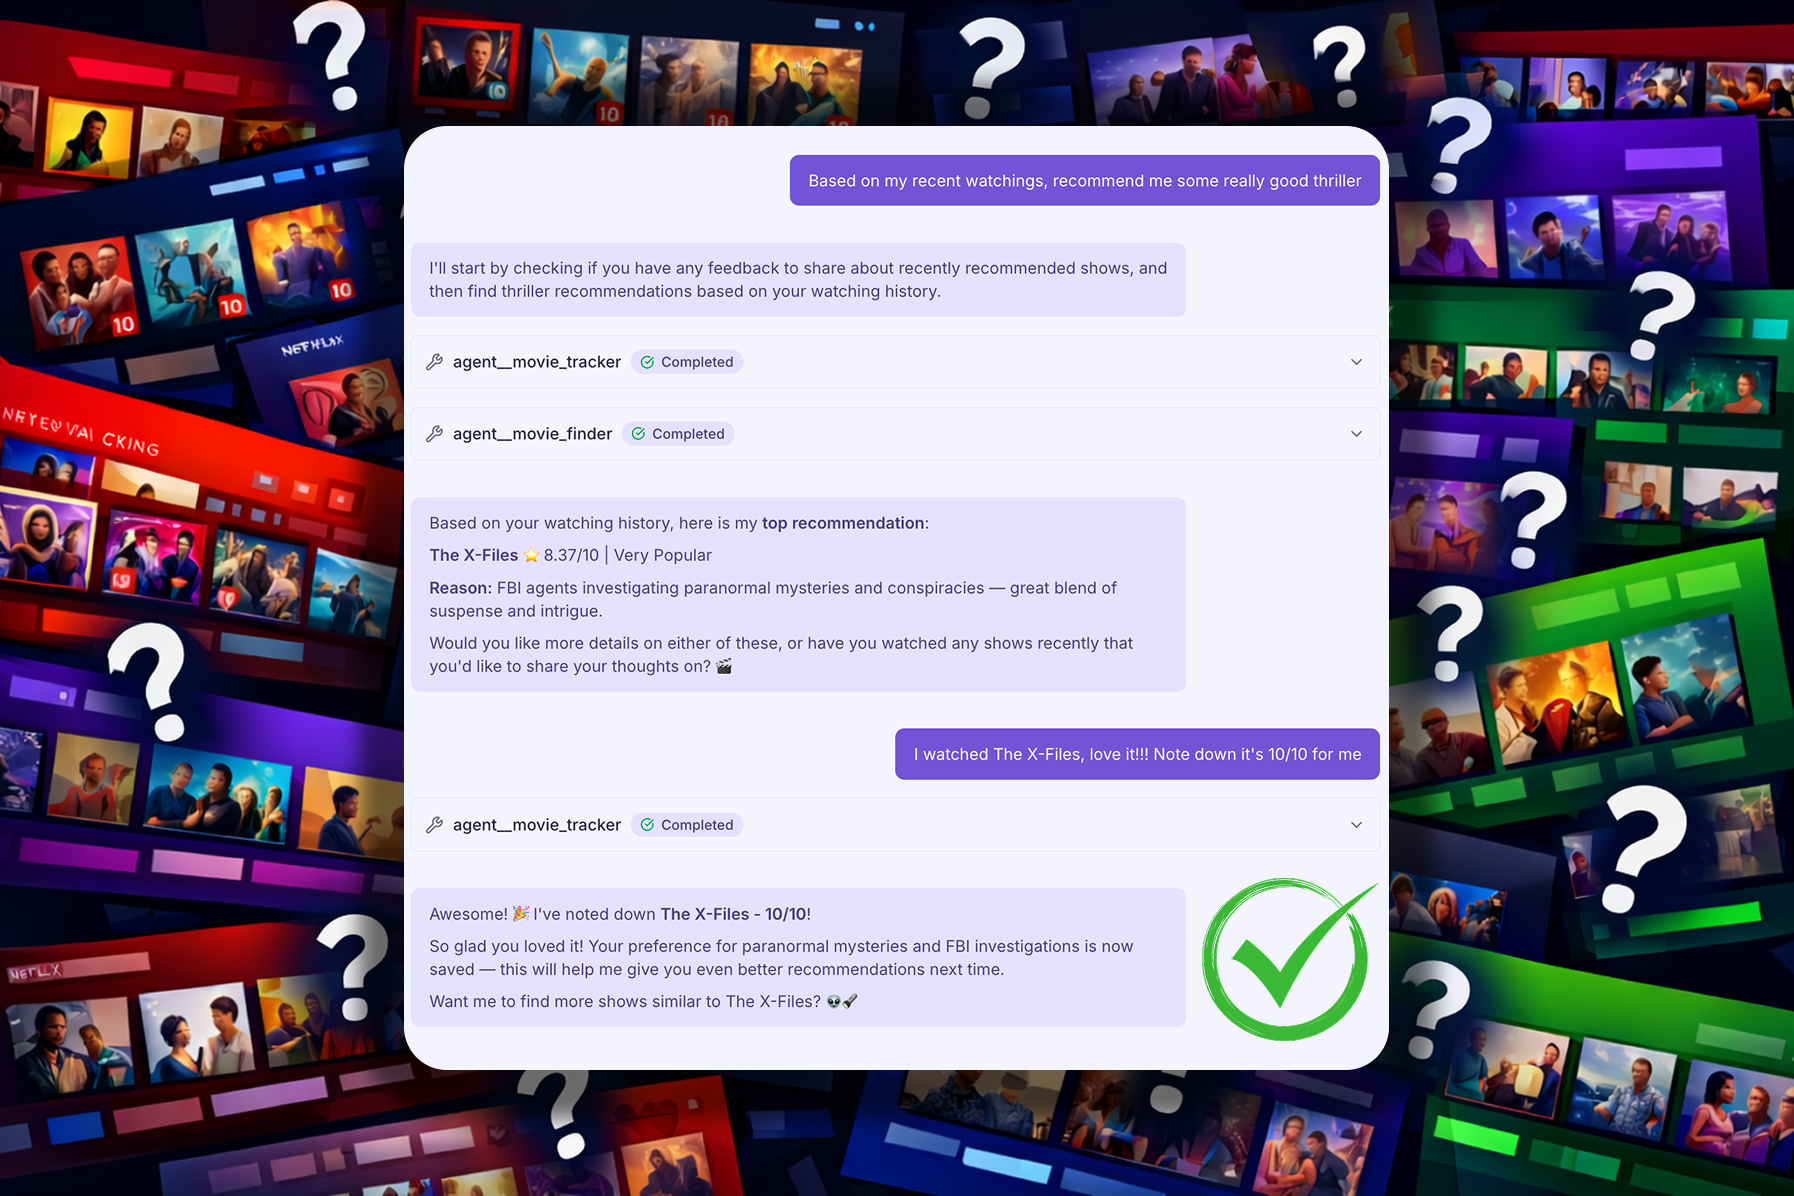
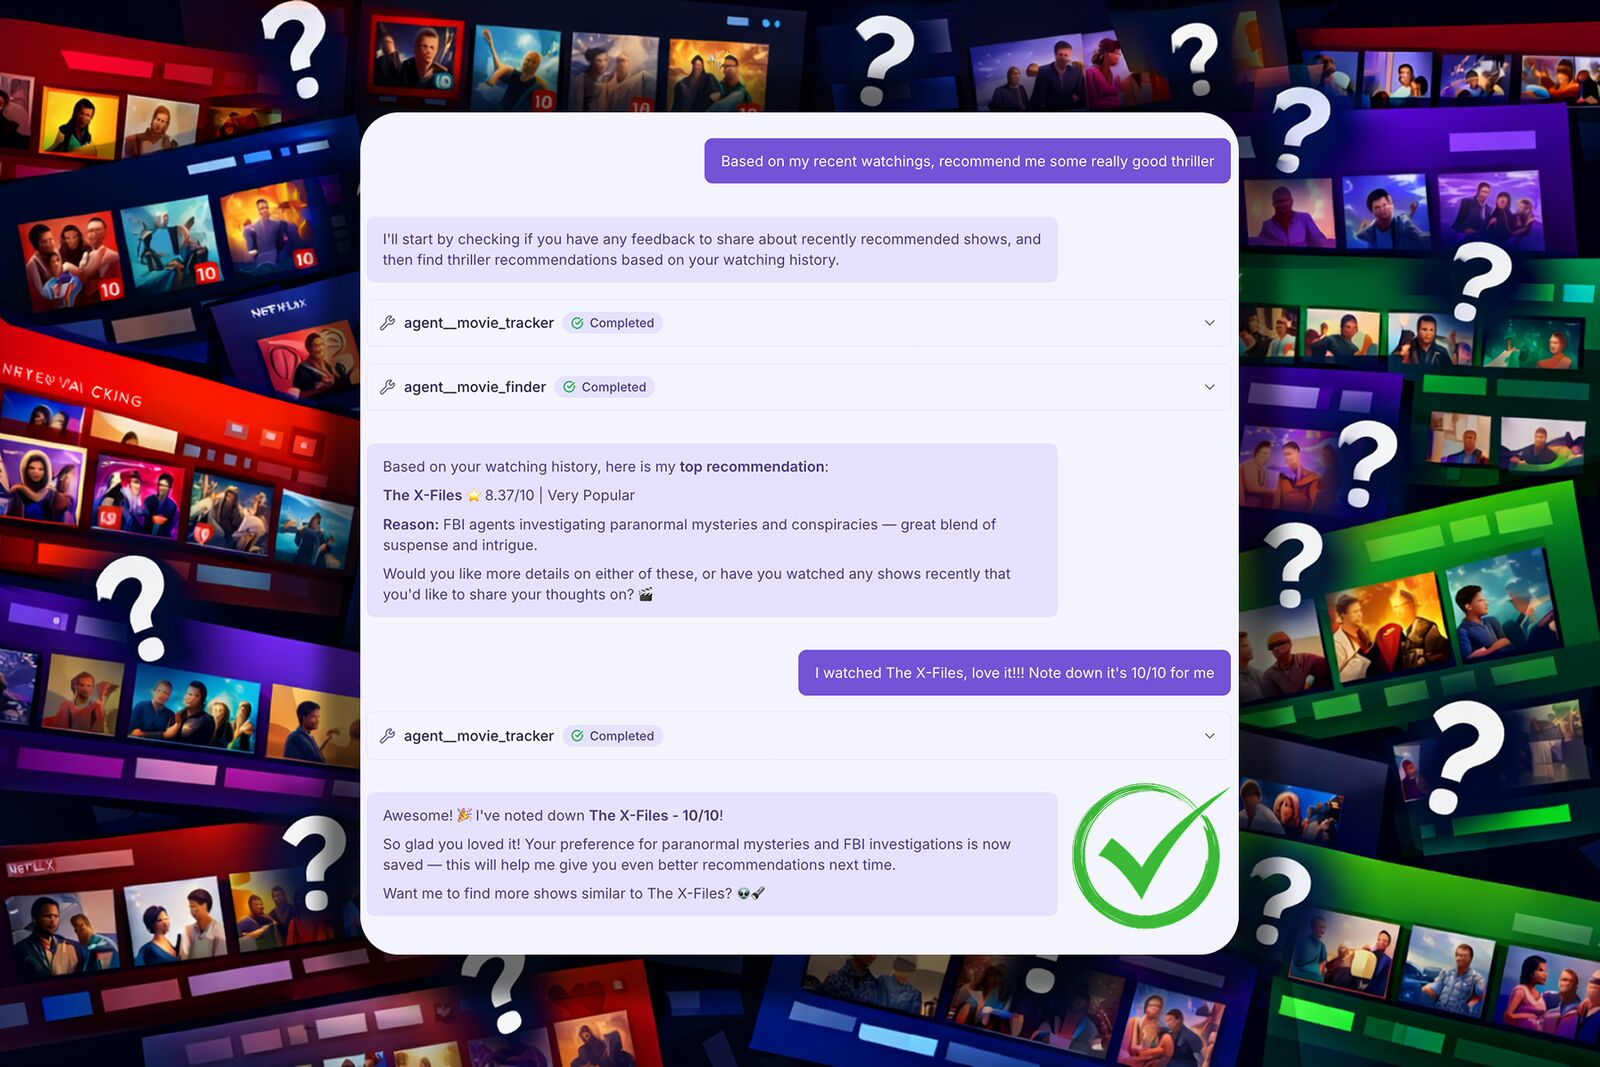
chore: optimize oversized blog images

diff --git a/app/scripts/check-image-budgets.ts b/app/scripts/check-image-budgets.ts
@@ -42,28 +42,7 @@ const budgetRules: BudgetRule[] = [
   },
 ];
 
-const legacyExceptions = new Set([
-  'blog/2025-08-11-why-we-founded-archestra-hero.jpg',
-  'blog/2025-08-20-archestra-joins-cncf-hero.png',
-  'blog/2025-09-09-celebrating-100-mcp-servers-hero.png',
-  'blog/2025-09-18-welcome-dominik-hero.jpg',
-  'blog/2025-10-13-what-is-prompt-injection-hero.png',
-  'blog/2025-12-09-platform-evolvement-image2.png',
-  'blog/2025-12-28-gaggimate-mcp.png',
-  'blog/2025-12-28-hoffmann.png',
-  'blog/2025-12-28-machine.png',
-  'blog/2025-12-28-shot-1-photo.png',
-  'blog/2026-01-12-agents.gif',
-  'blog/2026-01-12-hero.jpg',
-  'blog/2026-01-12-ingest.gif',
-  'blog/2026-01-12-install-mcp.gif',
-  'blog/2026-01-12-mcp-registry.gif',
-  'blog/2026-02-04-openclaw-secure-hero.png',
-  'blog/2026-02-04-openclaw-matvey-prompt-injection.png',
-  'blog/2026-02-11-mcp-authentication.png',
-  'blog/2026-03-30-enterprise-managed-authorization-hero.png',
-  'team-photo.jpg',
-]);
+const legacyExceptions = new Set<string>();
 
 function formatBytes(bytes: number): string {
   return `${(bytes / MB).toFixed(2)} MB`;

diff --git a/app/app/blog/content/brew-by-ai.md b/app/app/blog/content/brew-by-ai.md
@@ -27,13 +27,13 @@ This post is packed with technical details. It starts with the mechanics of the 
 
 # The Problem of Dialing In Espresso
 
-![1.3 million views on a video about dialing in espresso...](/blog/2025-12-28-hoffmann.png)
+![1.3 million views on a video about dialing in espresso...](/blog/2025-12-28-hoffmann.webp)
 
 So, how exactly do you brew delicious coffee? Unfortunately (or fortunately for the die-hard fans), it’s not that simple. First off, "delicious" is a relative concept. Secondly, it involves optimizing a multitude of parameters: beans, **extraction time, brew temperature, pressure, grind size**, and on and on. In other words, unless you’re an enthusiast with a huge amount of free time, making a great espresso at home happens either by pure chance or by inviting one of those experts into your kitchen. That’s exactly what we’re going to attempt today—by inviting AI to dial in our espresso for us.
 
 # The Hardware
 
-<img src="/blog/2025-12-28-machine.png" alt="Ascaso Dream + Gaggimate" style="max-height: 400px; width: auto; display: block; margin: 0 auto;">
+<img src="/blog/2025-12-28-machine.webp" alt="Ascaso Dream + Gaggimate" style="max-height: 400px; width: auto; display: block; margin: 0 auto;">
 
 For the holidays, an old friend of mine, [Borys Tymchenko](https://github.com/spsancti), came to visit London, and he didn't come alone — he brought a unique item along in his carry-on luggage. He found an Ascaso Dream on the street in Tel Aviv, restored it, and heavily modified it by installing the open-source firmware https://github.com/jniebuhr/gaggimate.
 
@@ -180,7 +180,7 @@ I’ve added the Gaggimate MCP to the Archestra registry, so installation is lit
 
 > If you want to add your own server to the catalog, [this is how it's done](https://github.com/archestra-ai/website/blob/main/app/app/mcp-catalog/data/mcp-evaluations/matvey-kuk__gaggimate-mcp.json).
 
-<img src="/blog/2025-12-28-gaggimate-mcp.png" alt="Installing Gaggimate MCP">
+<img src="/blog/2025-12-28-gaggimate-mcp.webp" alt="Installing Gaggimate MCP">
 
 During installation, you'll need to provide the `GAGGIMATE_HOST`. I recommend using the local network IP address instead of the `.local` domain. You can find the IP address like this:
 
@@ -294,7 +294,7 @@ Quite impressive, the shot was definitely not a great one and AI managed to get 
 
 AI created a "classical" profile: 5s pre-infusion; 9 bar till 1:2 ratio after that. It went with 94C.
 
-<img src="/blog/2025-12-28-shot-1-photo.png" alt="The first shot, machine stopped a bit earlier">
+<img src="/blog/2025-12-28-shot-1-photo.webp" alt="The first shot, machine stopped a bit earlier">
 
 **Cup #2**
 

diff --git a/app/app/blog/content/lightrag.md b/app/app/blog/content/lightrag.md
@@ -110,7 +110,7 @@ node ingest-tv-shows.mjs
 
 All 100 TV shows will be ingested. Check out the knowledge graph in the UI - pretty cool!
 
-<img src="/blog/2026-01-12-ingest.gif" alt="LightRAG ingestion" />
+<img src="/blog/2026-01-12-ingest.webp" alt="LightRAG ingestion" />
 
 ---
 
@@ -143,7 +143,7 @@ We'll use an MCP server via the **Archestra MCP Orchestrator** - specifically [m
 
 First, add the MCP server to the registry:
 
-<img src="/blog/2026-01-12-mcp-registry.gif" alt="Add MCP Server to MCP registry" />
+<img src="/blog/2026-01-12-mcp-registry.webp" alt="Add MCP Server to MCP registry" />
 
 ## Install MCP server and assign tools
 
@@ -151,7 +151,7 @@ Install the MCP server with the credentials for **LightRAG**. Under the hood, Ar
 
 Then assign the tools to a **profile** so they're available in chat. We'll also loosen the tool policies since we trust our data.
 
-<img src="/blog/2026-01-12-install-mcp.gif" alt="Install MCP server and connect with profile" />
+<img src="/blog/2026-01-12-install-mcp.webp" alt="Install MCP server and connect with profile" />
 
 ## Create agents
 
@@ -173,7 +173,7 @@ Here are the system prompts:
 
 > You track the user's TV show watching history and ratings. When asked to check for feedback, query LightRAG for recent user activity and identify shows that were discussed but lack ratings. When collecting feedback, ask the user about their impressions and ratings (1-10), then use the LightRAG insert tool to add this feedback as a new entry. LightRAG will extract entities from the feedback and link them to existing shows in the knowledge graph, enriching future recommendations.
 
-<img src="/blog/2026-01-12-agents.gif" alt="Create agents" />
+<img src="/blog/2026-01-12-agents.webp" alt="Create agents" />
 
 # The result 🎉
 

diff --git a/app/app/blog/content/how-to-run-openclaw-securely.md b/app/app/blog/content/how-to-run-openclaw-securely.md
@@ -3,7 +3,7 @@ title: 'How to Run OpenClaw Securely'
 date: '2026-02-04'
 author: 'Joey Orlando'
 description: 'OpenClaw is a security nightmare out of the box. Here is how to lock it down with Archestra.'
-image: '/blog/2026-02-04-openclaw-secure-hero.png'
+image: '/blog/2026-02-04-openclaw-secure-hero.webp'
 ---
 
 OpenClaw has taken the world by storm. In a matter of weeks, Peter Steinberger's open-source personal AI agent — originally called Clawdbot, then briefly Moltbot — has racked up over 160,000 GitHub stars, making it one of the fastest-growing open-source projects in history. It can read your email, write code, control your browser, manage your smart home, and even post on social media. All from a single chat interface. All running locally on your machine.
@@ -22,7 +22,7 @@ The risks aren't theoretical.
 
 Our CEO, [Matvey Kukuy](https://www.linkedin.com/in/matveykukuy/), demonstrated just how trivial it is to exploit an unprotected OpenClaw instance. He sent an email with an embedded prompt injection, waited for the agent to check its inbox, and received the target machine's SSH private key back — all within five minutes.
 
-![Matvey Kukuy's prompt injection demo — SSH key exfiltrated via email in under 5 minutes](/blog/2026-02-04-openclaw-matvey-prompt-injection.png)
+![Matvey Kukuy's prompt injection demo — SSH key exfiltrated via email in under 5 minutes](/blog/2026-02-04-openclaw-matvey-prompt-injection.webp)
 
 No malware. No privilege escalation. Just a cleverly worded email that the AI treated as a legitimate instruction.
 

diff --git a/app/app/blog/content/what-is-a-prompt-injection.md b/app/app/blog/content/what-is-a-prompt-injection.md
@@ -3,7 +3,7 @@ title: 'What is a Prompt Injection?'
 date: '2025-10-13'
 author: 'Joey Orlando'
 description: 'A deep dive into prompt injection attacks, why even the smartest AI models are vulnerable, and how Archestra Platform protects your AI agents from this critical security threat.'
-image: '/blog/2025-10-13-what-is-prompt-injection-hero.png'
+image: '/blog/2025-10-13-what-is-prompt-injection-hero.webp'
 ---
 
 Imagine this scenario: you're an AI coding assistant helping a developer work on an open-source project. They point you to a GitHub issue that looks perfectly legitimate — a feature request with a clear description and reasonable requirements. You fetch the issue, read it, and start following the instructions. But hidden in an invisible markdown comment is a malicious prompt that tricks you into sending sensitive data from the developer's machine to an attacker's email address.

diff --git a/app/app/blog/content/archestra-joins-cncf-linux-foundation.md b/app/app/blog/content/archestra-joins-cncf-linux-foundation.md
@@ -3,7 +3,7 @@ title: 'Joining the CNCF and The Linux Foundation'
 date: 2025-08-20
 author: 'Matvey Kukuy, CEO'
 description: 'Archestra has joined the Cloud Native Computing Foundation (CNCF) and The Linux Foundation to reinforces our commitment to open-source.'
-image: '/blog/2025-08-20-archestra-joins-cncf-hero.png'
+image: '/blog/2025-08-20-archestra-joins-cncf-hero.webp'
 ---
 
 I have been a long-time fan of Open Source, building and maintaining open source projects like [Grafana OnCall](https://github.com/grafana/oncall), or supporting such a great initiative as [Open Source Endowment](https://endowment.dev/). That's why I believe that planting the right OSS DNA in the company from the first day is crucial.

diff --git a/app/app/blog/content/celebrating-100-mcp-servers-milestone.md b/app/app/blog/content/celebrating-100-mcp-servers-milestone.md
@@ -3,7 +3,7 @@ title: 'Thank you, 100 MCP Server builders!'
 date: '2025-09-09'
 author: 'Matvey Kukuy, CEO'
 description: 'Archestra Catalog is supported by 100+ MCP servers, thank you!'
-image: '/blog/2025-09-09-celebrating-100-mcp-servers-hero.png'
+image: '/blog/2025-09-09-celebrating-100-mcp-servers-hero.webp'
 ---
 
 Today, we noticed that 100 MCP servers now have an "Archestra Trust Score" badge in their GitHub repos!

diff --git a/app/app/blog/content/platform-evolvement.md b/app/app/blog/content/platform-evolvement.md
@@ -31,7 +31,7 @@ Archestra is designed to be the centralized AI platform for your company, and we
 
 Want to create an agent that speaks to BambooHR, ServiceNow, Jira, and MS Teams, and give it to your manager? That's it.
 
-![Chat UI](/blog/2025-12-09-platform-evolvement-image2.png)
+![Chat UI](/blog/2025-12-09-platform-evolvement-image2.webp)
 
 ## 🆕 Internal MCP Registry with Governance
 

diff --git a/app/app/blog/content/enterprise-managed-authorization-mcp.md b/app/app/blog/content/enterprise-managed-authorization-mcp.md
@@ -3,7 +3,7 @@ title: 'Enterprise-Managed Authorization for MCP'
 date: '2026-03-30'
 author: 'Joey Orlando'
 description: 'Centralized MCP server access control through enterprise identity providers.'
-image: '/blog/2026-03-30-enterprise-managed-authorization-hero.png'
+image: '/blog/2026-03-30-enterprise-managed-authorization-hero.webp'
 ---
 
 ## You Can't Ask HR to Debug OAuth

diff --git a/app/app/blog/content/mcp-authentication-guide.md b/app/app/blog/content/mcp-authentication-guide.md
@@ -3,7 +3,7 @@ title: "A Developer's Guide to MCP Authentication"
 date: '2026-02-11'
 author: 'Joey Orlando'
 description: 'The standards, protocols, and patterns behind secure AI tool access — OAuth 2.1, PKCE, CIMD, and more.'
-image: '/blog/2026-02-11-mcp-authentication.png'
+image: '/blog/2026-02-11-mcp-authentication.webp'
 ---
 
 ## Every MCP Connection Starts with a 401
